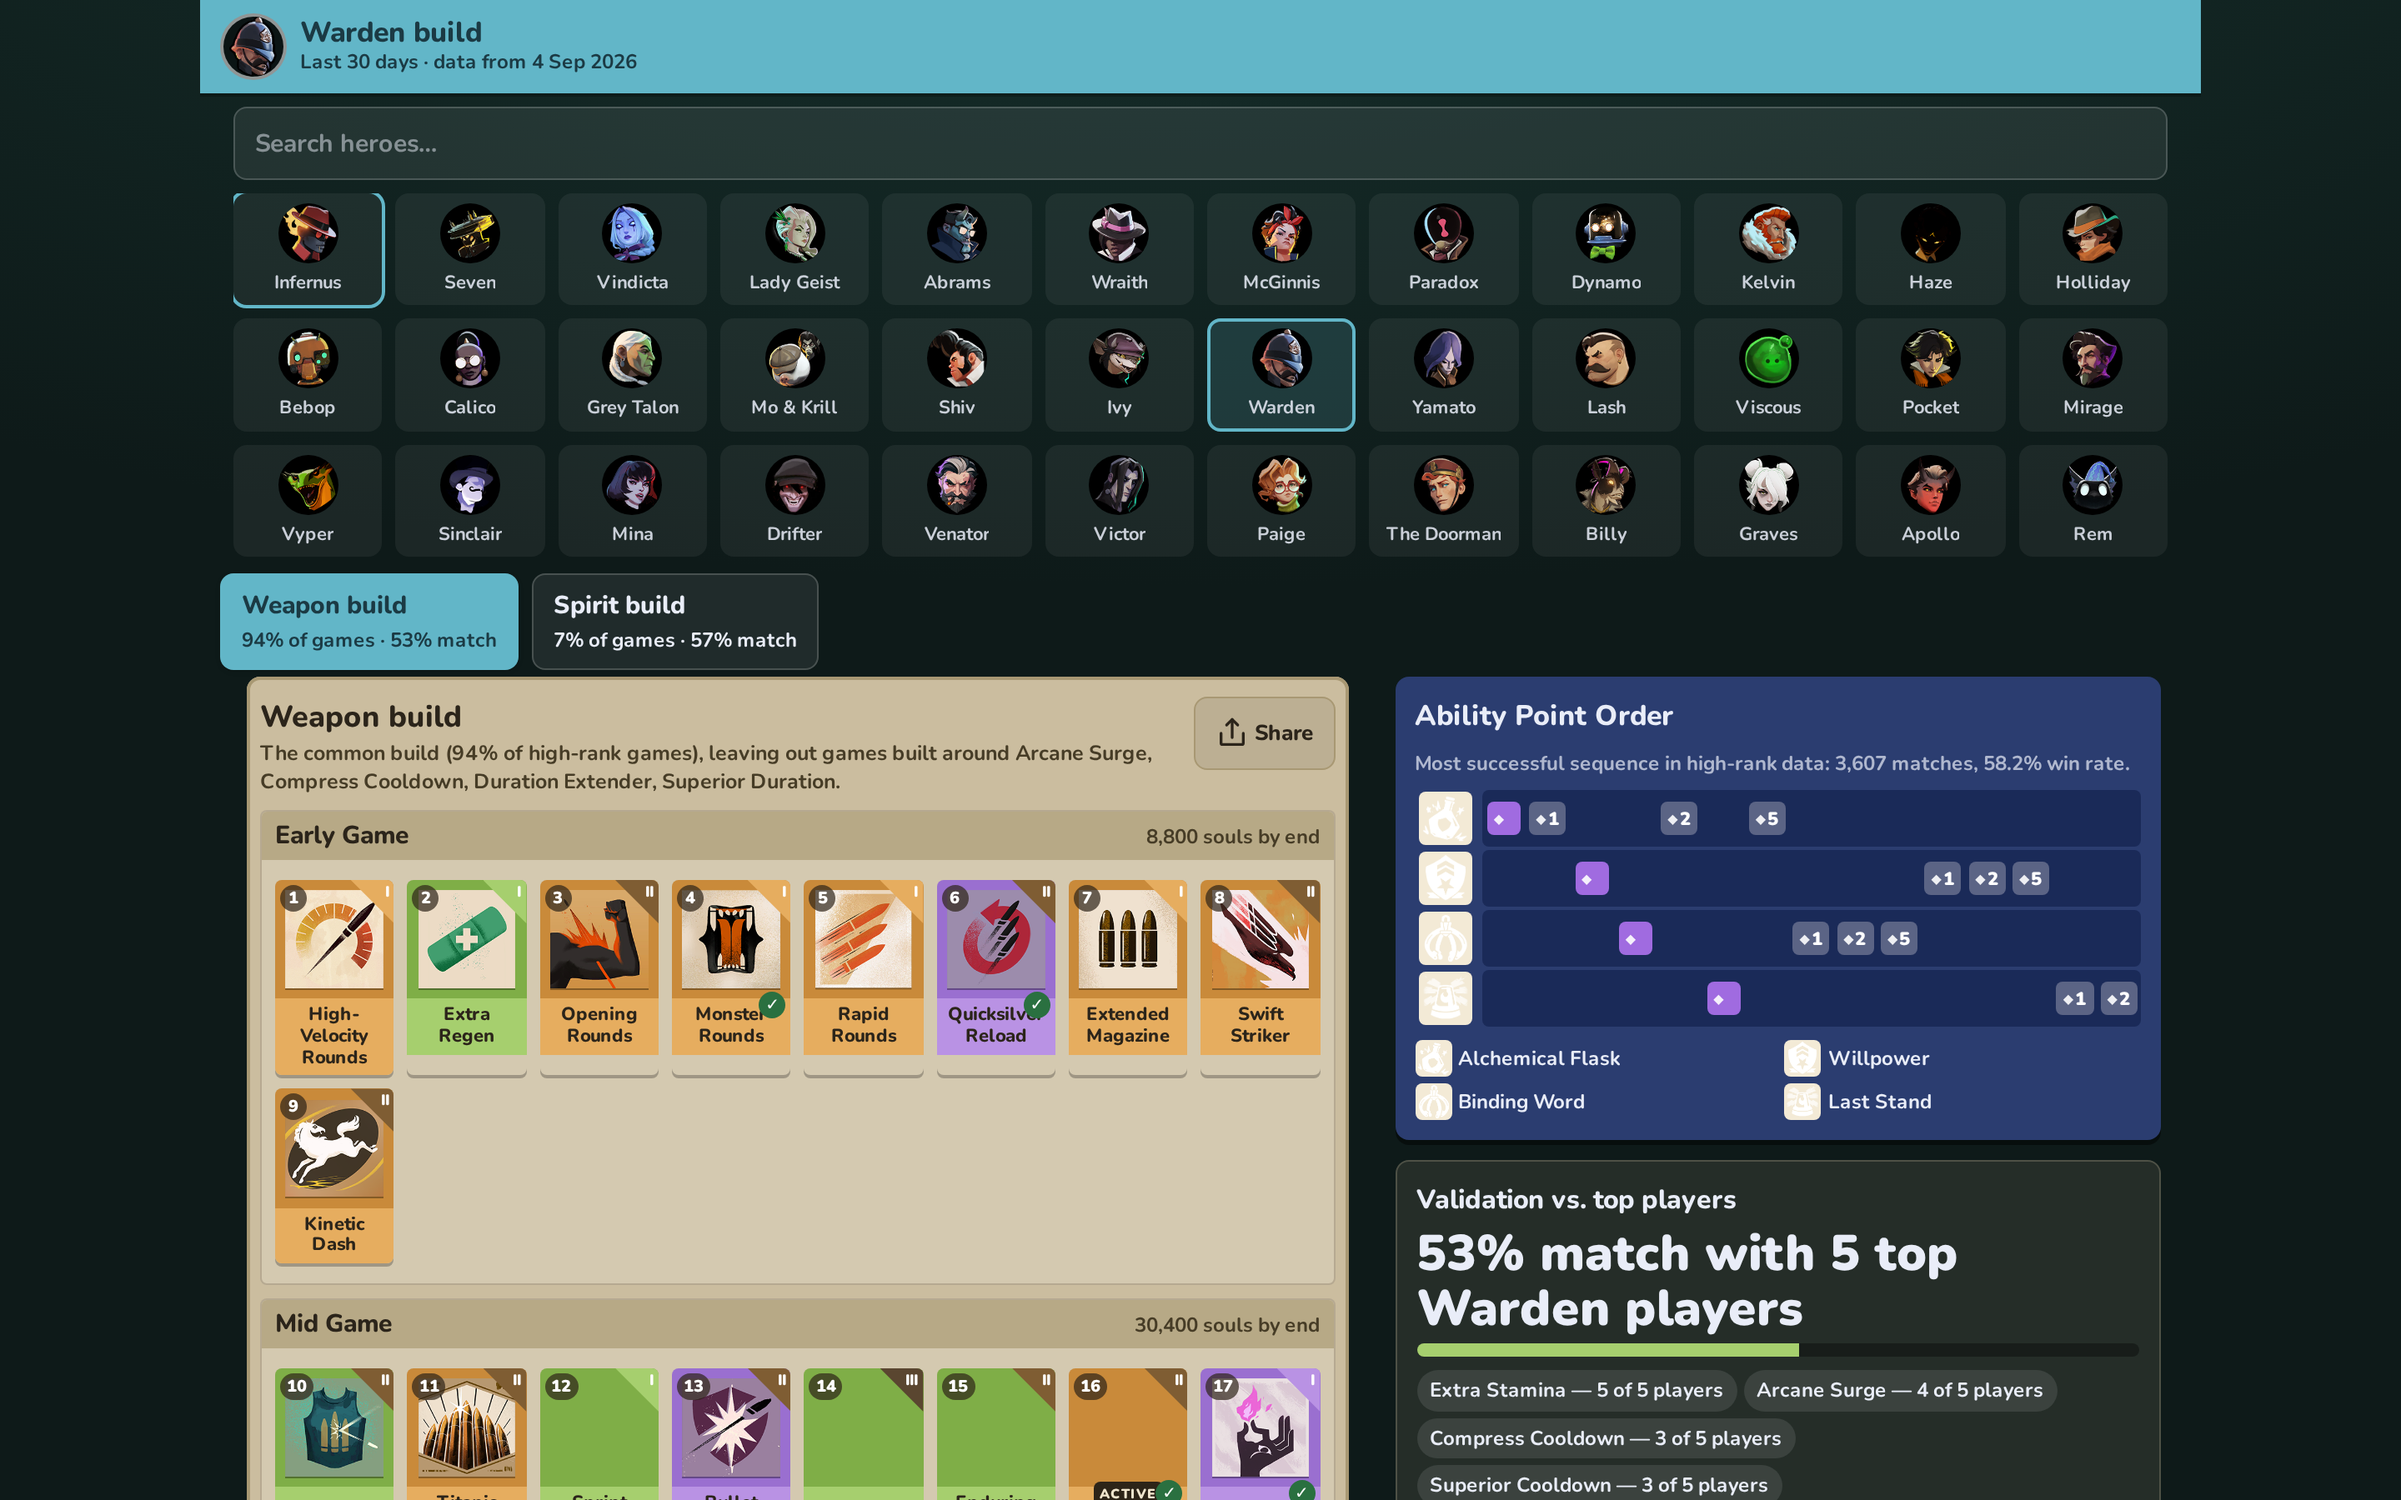
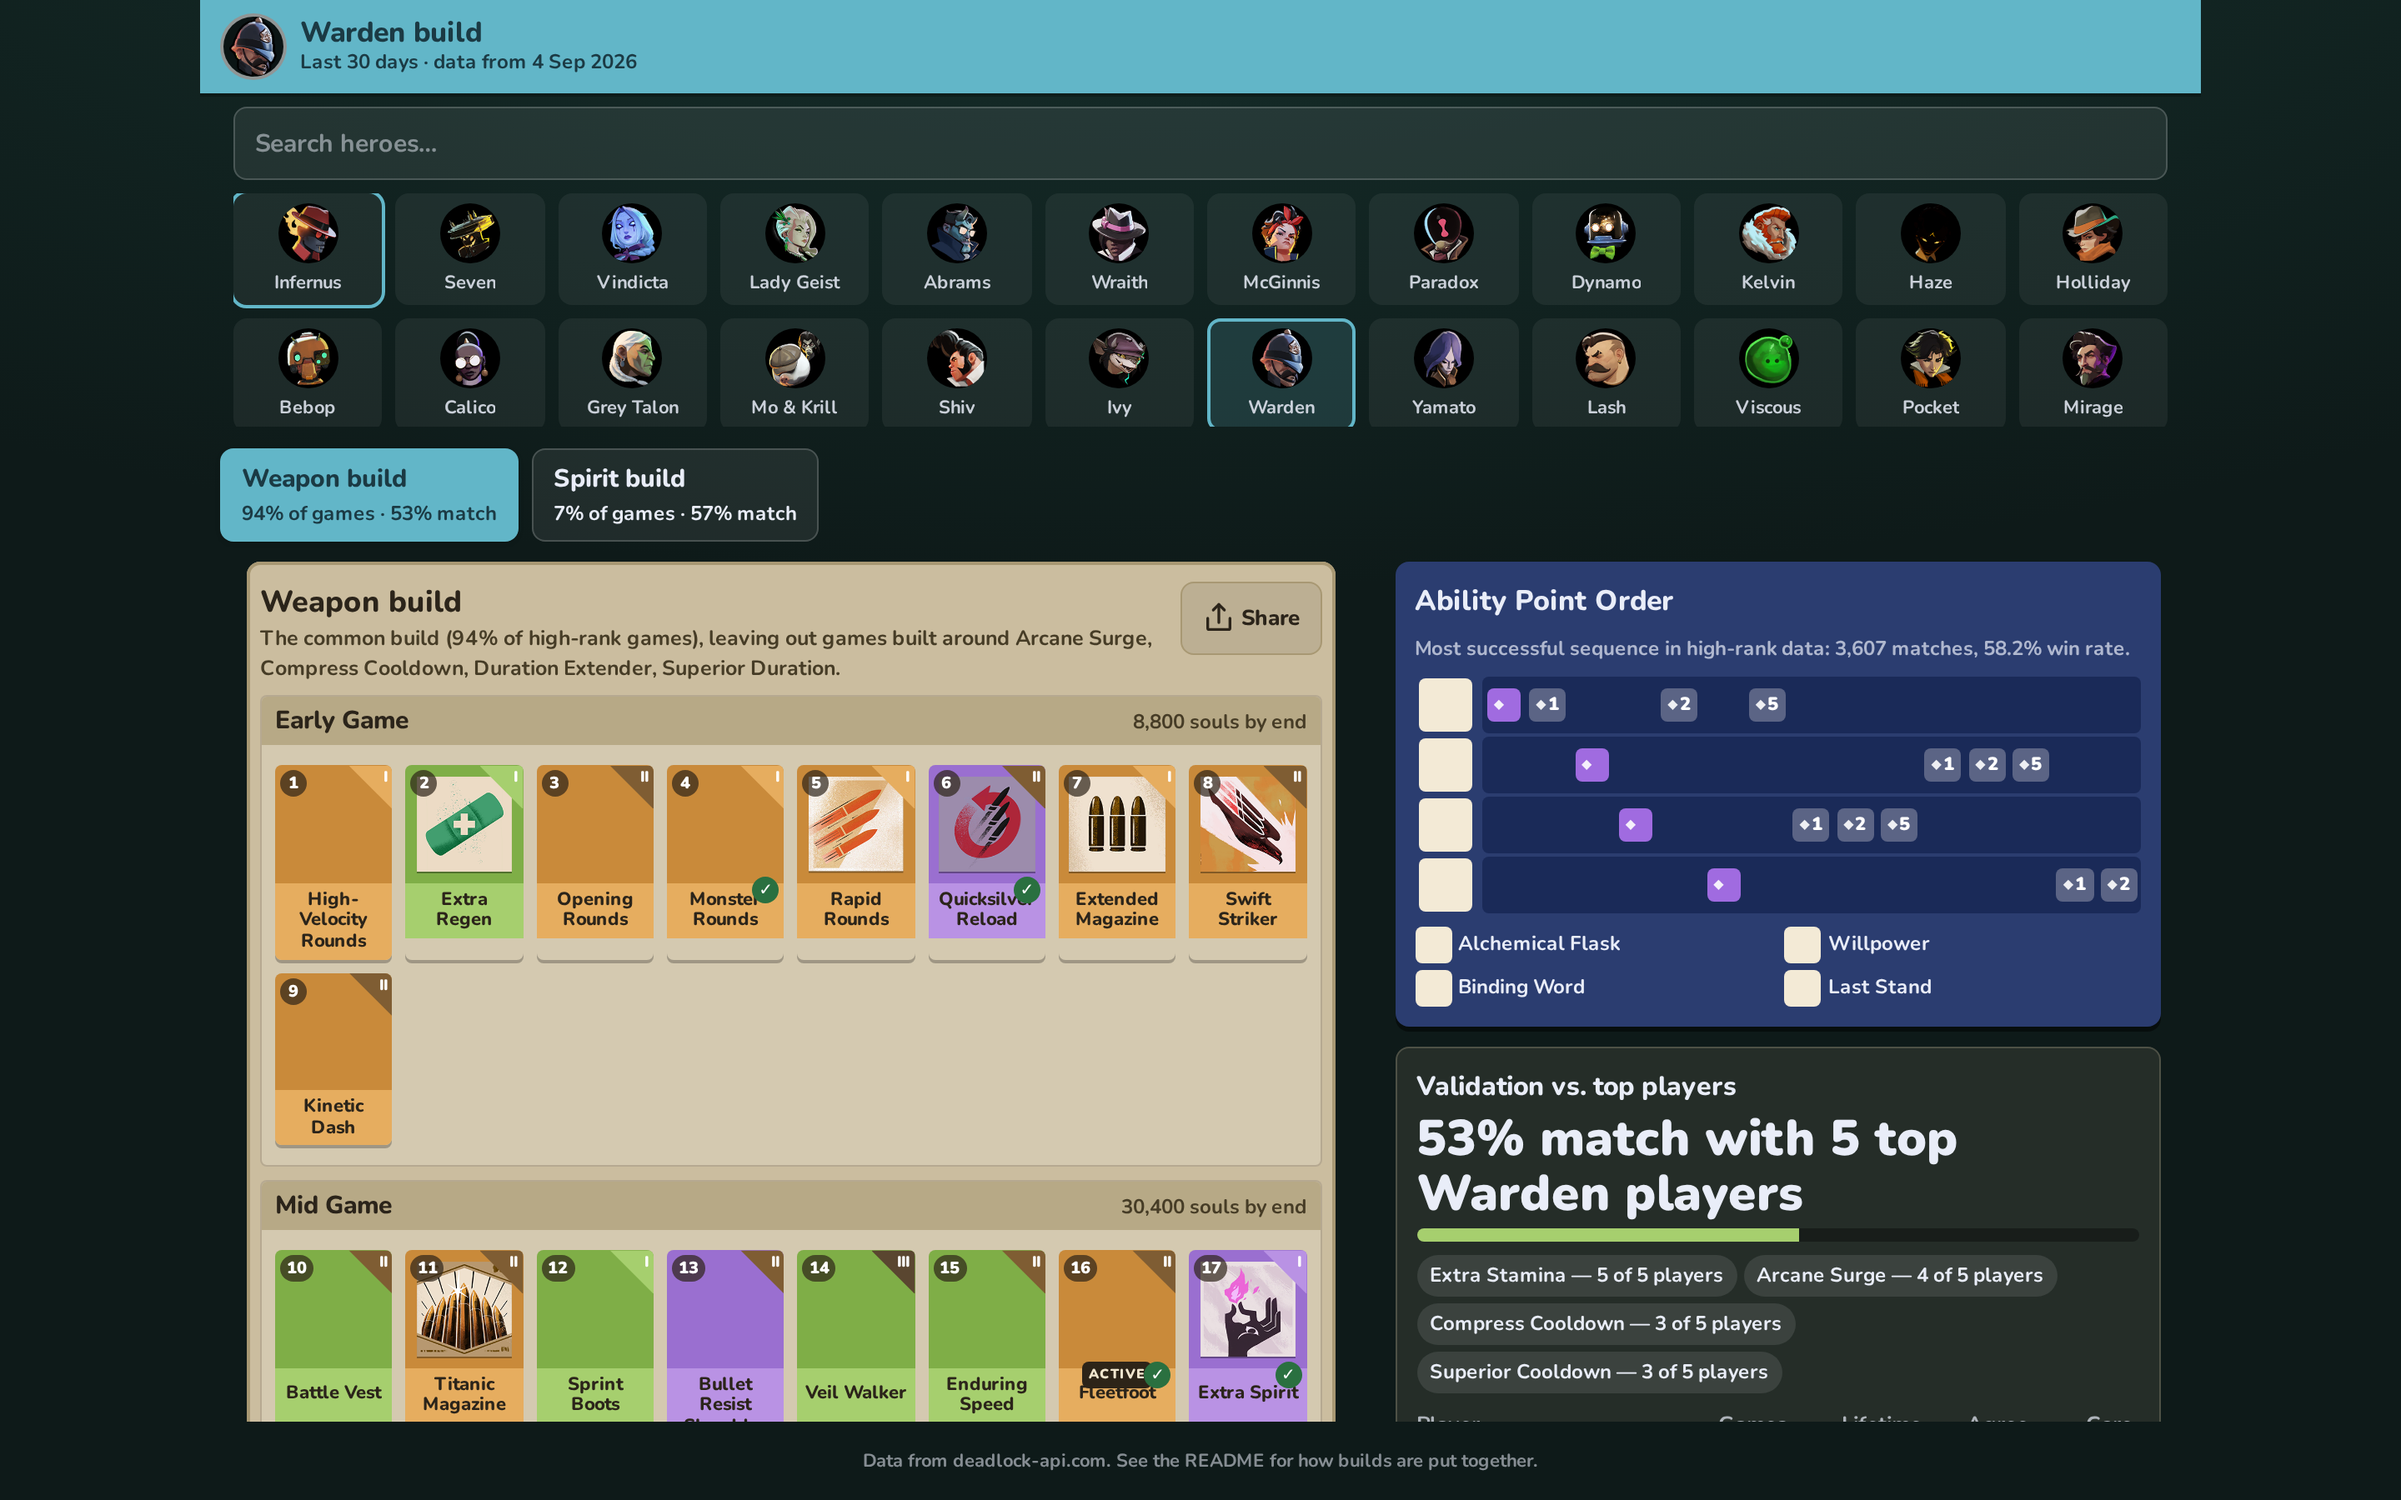
Sort ability order to match hero's real sequence, fix desktop layout to fill viewport
Ability tiles were showing in encounter order instead of the hero's actual
ability order (Q/W/E/R), both in the UI and the PNG export. Desktop layout
now locks to viewport height with independently scrolling board/side columns
instead of relying on sticky positioning and page scroll.

Claude-Session: https://claude.ai/code/session_01Jh4j1d1CHqXpRynNa3PhGU

diff --git a/src/index.css b/src/index.css
@@ -978,10 +978,18 @@ footer {
 
 /* desktop: fill the window, board on the left, ability order + reports on the right */
 @media (min-width: 900px) {
+  html,
+  body {
+    height: 100%;
+    overflow: hidden;
+  }
   #root {
     max-width: 1200px;
+    height: 100dvh;
     margin: 0 auto;
-    padding: 0 0 24px;
+    padding: 0;
+    display: flex;
+    flex-direction: column;
   }
   .hero-picker-trigger {
     display: none;
@@ -989,24 +997,34 @@ footer {
   .hero-picker-desktop {
     display: block;
     margin: 8px 20px 4px;
+    flex: none;
   }
   .hero-picker-desktop .hero-grid {
     grid-template-columns: repeat(auto-fill, minmax(88px, 1fr));
-    max-height: 220px;
+    max-height: 140px;
   }
   .layout {
     display: grid;
     grid-template-columns: minmax(0, 1.4fr) minmax(360px, 1fr);
+    grid-template-rows: minmax(0, 1fr);
     gap: 0 12px;
     padding: 4px 8px 0 20px;
     align-items: start;
+    flex: 1 1 auto;
+    min-height: 0;
   }
+  .col-main,
   .col-side {
-    position: sticky;
-    top: 72px;
-    max-height: calc(100vh - 80px);
+    height: 100%;
+    min-height: 0;
     overflow-y: auto;
     padding-right: 8px;
+  }
+  .board-wrap {
+    display: flex;
+    flex-direction: column;
+    flex: 1 1 auto;
+    min-height: 0;
   }
   .tiles {
     grid-template-columns: repeat(6, 1fr);
@@ -1029,6 +1047,20 @@ footer {
 
 .style-tabs-wrap {
   display: block;
+}
+@media (min-width: 900px) {
+  .style-tabs-wrap {
+    display: flex;
+    flex-direction: column;
+    flex: 1 1 auto;
+    min-height: 0;
+  }
+  .style-tabs-wrap > [role='tabpanel'] {
+    display: flex;
+    flex-direction: column;
+    flex: 1 1 auto;
+    min-height: 0;
+  }
 }
 .style-tabs {
   display: flex;

diff --git a/src/components/BuildView.tsx b/src/components/BuildView.tsx
@@ -23,12 +23,14 @@ export function BuildView({
   panel,
   heroName,
   heroImage,
+  heroAbilityOrder,
   fetchedAt,
 }: {
   build: Build;
   panel: PanelValidation | null;
   heroName: string;
   heroImage?: string;
+  heroAbilityOrder: string[];
   fetchedAt?: string;
 }) {
   const [openIndex, setOpenIndex] = useState<number | null>(null);
@@ -51,7 +53,7 @@ export function BuildView({
     setBusy('png');
     const toastId = toast.loading('Rendering build image…');
     try {
-      const blob = await renderBuildPng(build, { heroName, heroImage, img, fetchedAt });
+      const blob = await renderBuildPng(build, { heroName, heroImage, heroAbilityOrder, img, fetchedAt });
       const file = new File([blob], `${slug}.png`, { type: 'image/png' });
       const nav = navigator as Navigator & { canShare?: (d: ShareData) => boolean };
       if (nav.share && nav.canShare?.({ files: [file] })) {
@@ -76,7 +78,9 @@ export function BuildView({
       setBusy(null);
     }
   };
-  const abilities = [...new Map(build.abilityOrder.map((s) => [s.ability.id, s.ability])).values()];
+  const abilities = [...new Map(build.abilityOrder.map((s) => [s.ability.id, s.ability])).values()].sort(
+    (a, b) => heroAbilityOrder.indexOf(a.class_name) - heroAbilityOrder.indexOf(b.class_name),
+  );
   const steps = build.abilityOrder.length;
   const reps = panel?.players.length ?? 0;
   const need = consensusThreshold(reps);

diff --git a/src/export/png.ts b/src/export/png.ts
@@ -64,6 +64,7 @@ function wrap(g: CanvasRenderingContext2D, text: string, max: number): string[] 
 export interface PngOptions {
   heroName: string;
   heroImage?: string;
+  heroAbilityOrder: string[];
   img: (p?: string) => string | undefined;
   scale?: number;
   fetchedAt?: string;
@@ -77,7 +78,9 @@ export async function renderBuildPng(build: Build, o: PngOptions): Promise<Blob>
     TILE = (W - PAD * 2 - (COLS - 1) * 10) / COLS,
     TILE_H = TILE + 36;
   const phases = PHASES.map((p) => ({ ...p, rows: build.items.filter((b) => b.phase === p.key) })).filter((p) => p.rows.length);
-  const abilities = [...new Map(build.abilityOrder.map((s) => [s.ability.id, s.ability])).values()];
+  const abilities = [...new Map(build.abilityOrder.map((s) => [s.ability.id, s.ability])).values()].sort(
+    (a, b) => o.heroAbilityOrder.indexOf(a.class_name) - o.heroAbilityOrder.indexOf(b.class_name),
+  );
   const steps = build.abilityOrder.length;
   const tileImgs = await Promise.all(build.items.map((b) => loadImg(o.img(b.item.shop_image_webp || b.item.image_webp))));
   const abImgs = await Promise.all(abilities.map((a) => loadImg(o.img(a.image_webp))));

diff --git a/src/App.tsx b/src/App.tsx
@@ -247,6 +247,7 @@ export default function App() {
                   panel={build ? (validations[tab] ?? null) : (lastGood?.panel ?? null)}
                   heroName={build ? hero.name : (lastGood?.heroName ?? hero.name)}
                   heroImage={build ? img(hero.images.small) : lastGood?.heroImage}
+                  heroAbilityOrder={hero.abilities}
                   fetchedAt={build ? manifest?.fetched_at.slice(0, 10) : lastGood?.fetchedAt}
                 />
               </div>
